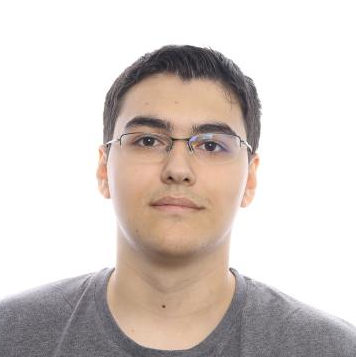
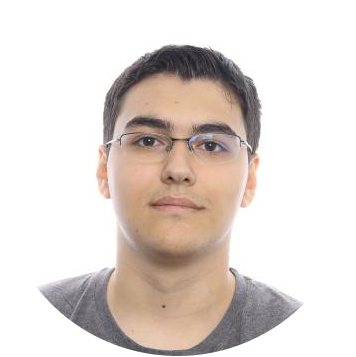
fixed round image

Changed region(s): [[0.0, 0.8011, 1.0, 1.0]]

diff --git a/style.css b/style.css
@@ -120,10 +120,6 @@ width: 30vw;
 
 }
 
-#Moi img
-{
-	border-radius: 50%;
-}
 
 
 #Projets
